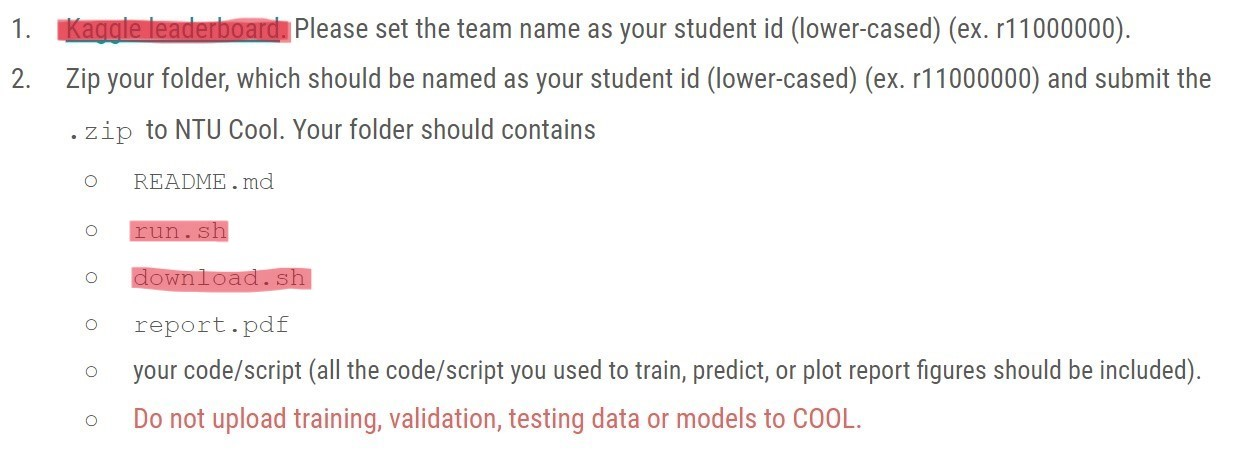
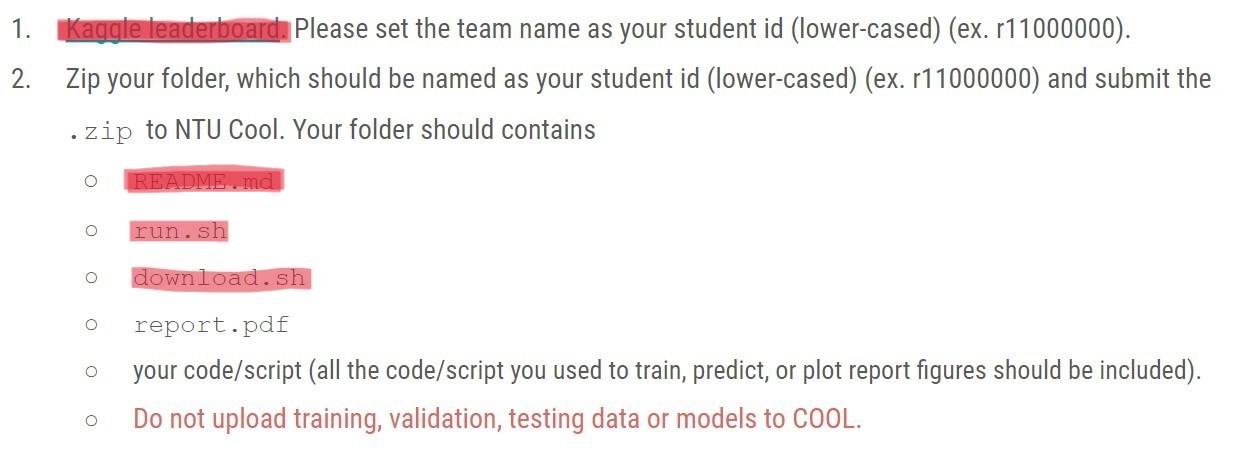
v1

Changed region(s): [[0.092, 0.3291, 0.2454, 0.4188]]

diff --git a/ADLHW1_submit/README.md b/ADLHW1_submit/README.md
@@ -1,0 +1,70 @@
+
+# ADL HW1: m11203404 陳旭霖
+以下內容包含:
+* Build up environment
+* Download models and data
+* Preprocess and Inference
+* Training 
+* Contact Information
+
+## Build up environment
+- Step1: Please create and activate your venv first
+- Step2: install torch
+    ```
+    pip install torch==1.12.1+cu116 torchvision==0.13.1+cu116 torchaudio==0.12.1 --extra-index-url https://download.pytorch.org/whl/cu116
+    ```
+- Step3: install requirement.txt 
+    ```
+    pip install -r requirement.txt
+    ```
+
+## Download models
+- Option1: Download by Shell Scripts
+    ```
+    bash ./download.sh
+    ```
+- Option2: Download 2023ADLHW1_gDrive.zip by gDrive: 
+    
+    https://drive.google.com/file/d/1fb7_athHmHgl9j7f_PSj7K69_ixZS7XH/view?usp=drive_link
+
+## Preprocess and Inferance
+- Execute by Shell Scripts
+    ```
+    bash ./run.sh /path/to/context.json /path/to/test.json /path/to/pred/prediction.csv
+    ```
+## Training
+- Step1: 先將作業提供的json檔案修改成程式可以讀取的格式
+    ```
+    python modify_train+valid.py # 將train與valid合成為一個訓練json
+
+    python modify_Paragraph_json.py # 修改test、valid
+
+    python modify_QA_json.py # 修改test、valid
+
+    python modify_test_json.py # 修改test
+    ```
+
+- Step2: 訓練Paragraph
+    ```
+    python run_swag_no_trainer.py --model_name_or_path bert-base-chinese --train_file   modify_total_Paragraph.json --validation_file modify_valid_Paragraph.json --max_seq_length 512 --per_device_train_batch_size 4 --learning_rate 3e-5 --num_train_epochs 1 --output_dir /xxxx/xxxx/
+    ```
+
+- Step3: 訓練QA
+    ```
+    python run_qa_no_trainer.py --train_file modify_total_QA.json --validation_file modify_valid_QA.json --max_seq_length 512 --model_name_or_path bert-base-chinese --per_device_train_batch_size 8 --learning_rate 3e-5 --num_train_epochs 3 --output_dir /XXX/XXX/ 
+
+    ```
+
+- Step4: Inference. 記得修改裡面讀取模型的路徑
+    ```
+    python Inference.py
+    ```
+
+## Contact
+- Email: charles77778888asd@gmail.com 
+- linkedin: www.linkedin.com/in/旭霖-陳-b34102277
+
+
+
+
+
